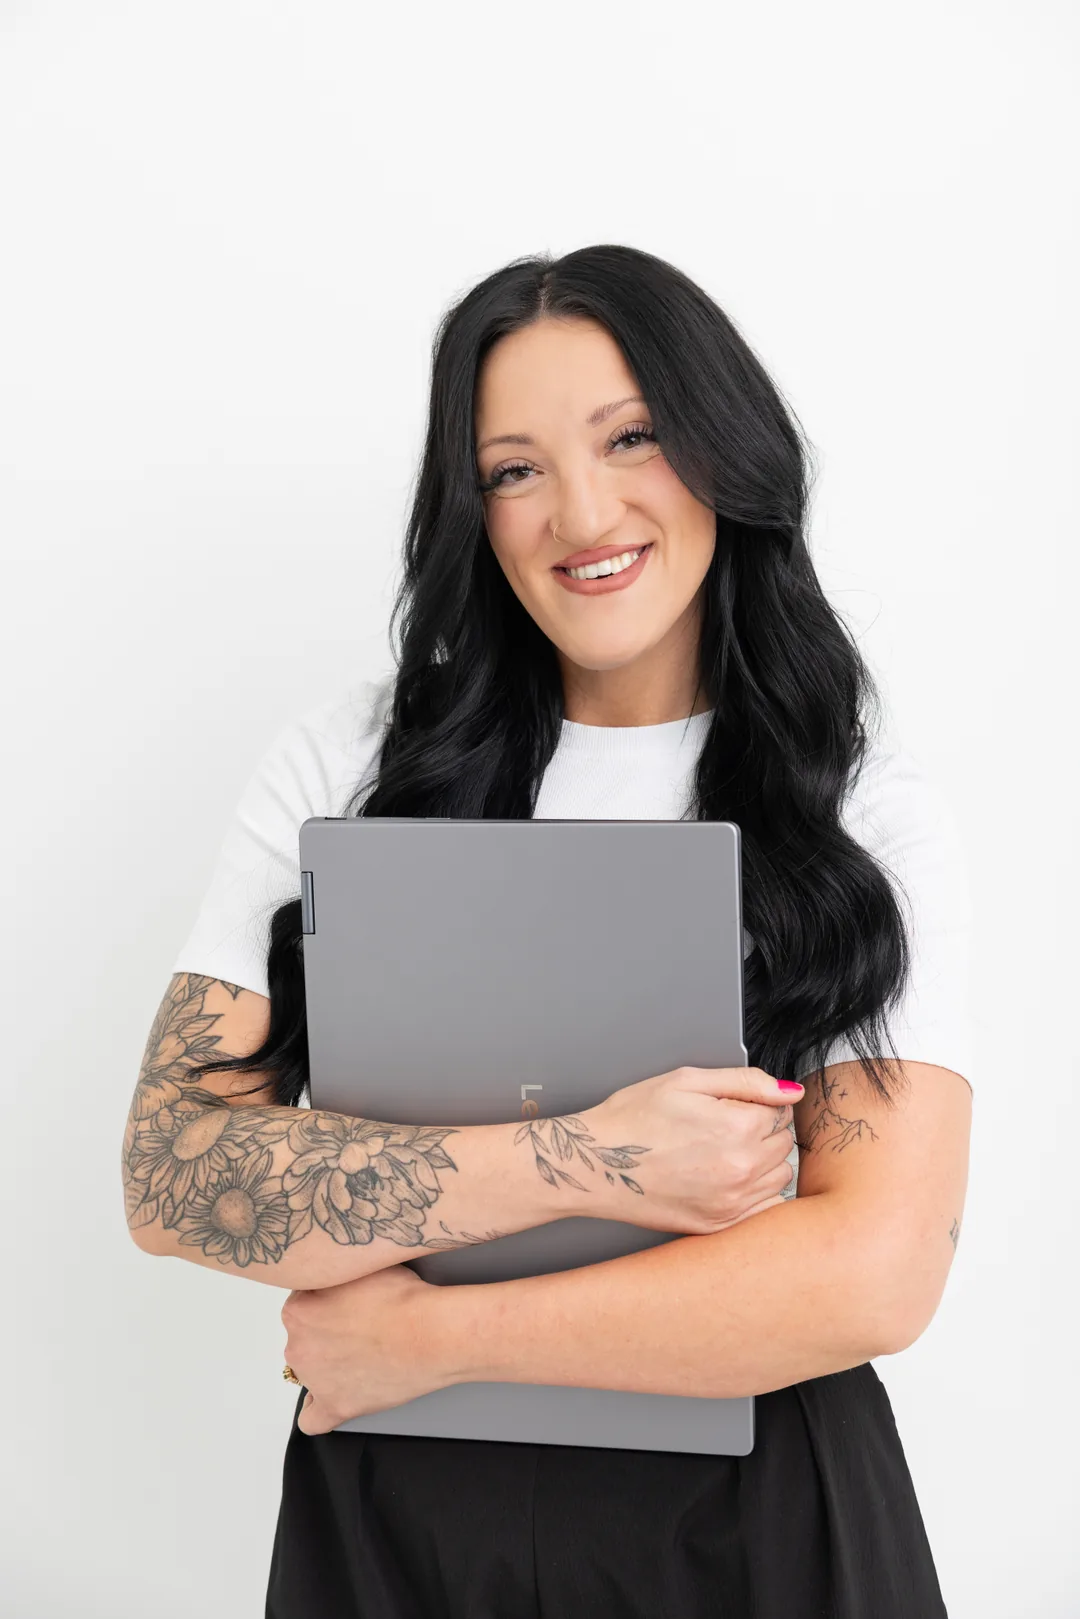
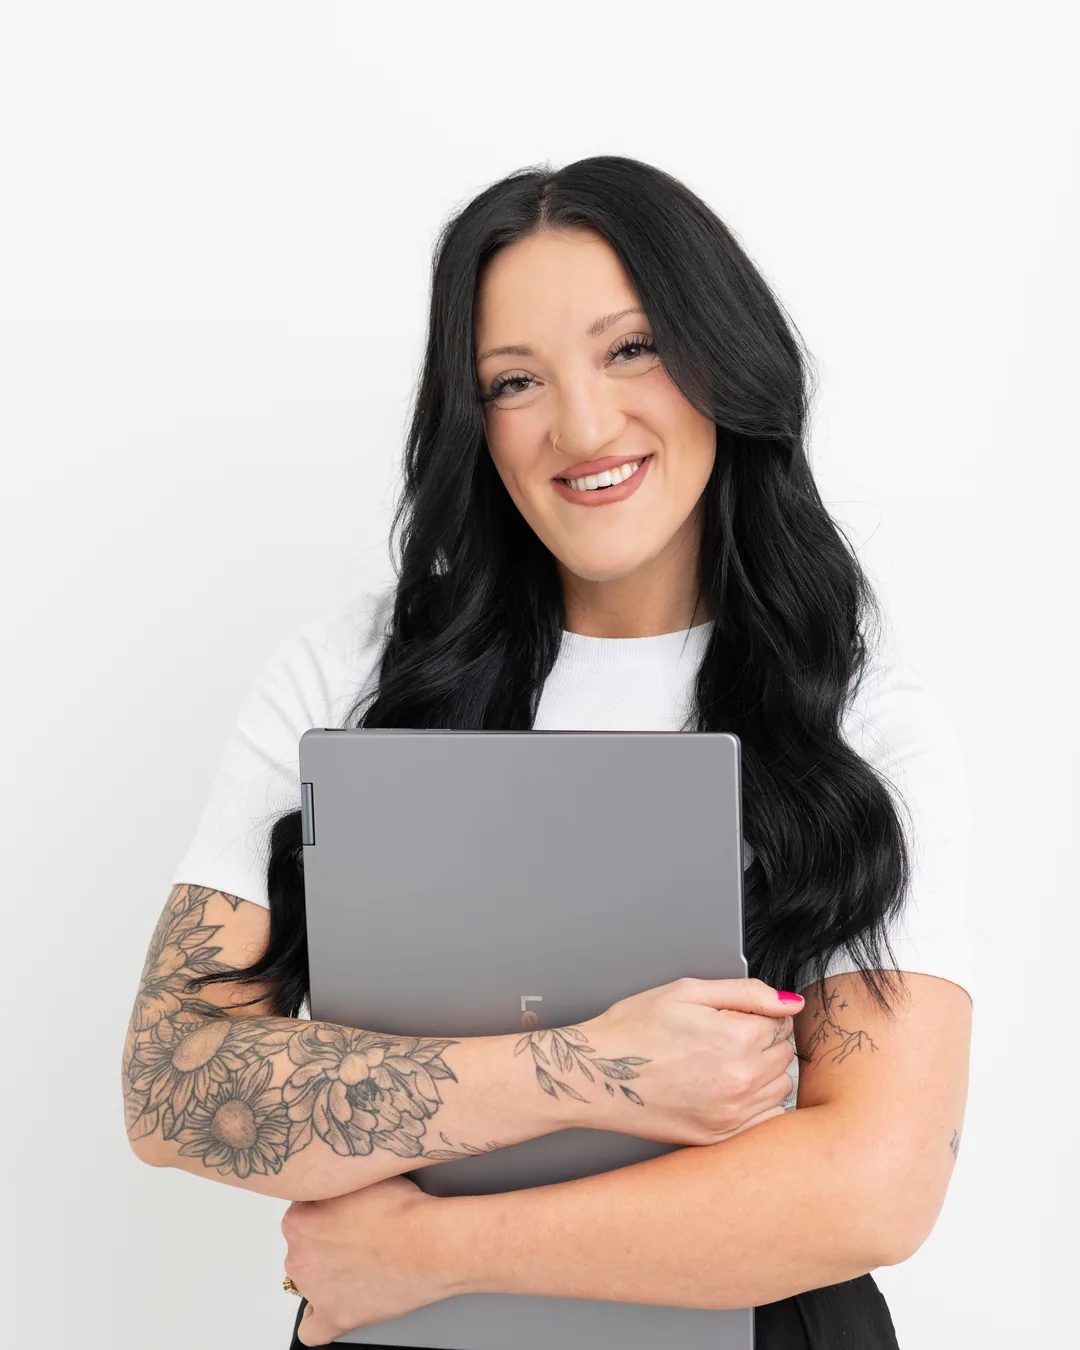
Add founder section, restore colour, and fix two live defects
Requested changes plus the two remaining confirmed bugs.

Testimonials: move the portrait band from just above the CTA to
directly under the hero, ahead of the stats. Switched to eager
loading, since at its new position it is above the fold on most
screens and would otherwise pop in mid-scroll.

Colour: drop the grayscale filter and the teal mix-blend-multiply
wash from the BehindElevate and Contact portraits, so all four
photographs of the founder now render in colour. The double-border
frames stay -- those are the editorial device, not the treatment.
The home hero keeps its duotone treatment as requested.

Contact crop: the frame was a landscape box (min-h-[380px] at ~486px
wide) holding a 2:3 portrait, so object-cover discarded 48% of the
image height -- 387px off the top and bottom. Replaced the min-height
with aspect-[4/5] and removed the flex-1/flex that was overriding it,
then re-exported the asset at 1080x1350 to match the frame exactly.
Measured in-browser: 100% of the image now survives, was 52%.

Founder band: new section between SelectedWorks and the pull-quote
testimonials, so the quotes that say "she" and "Tysen" have a face
attached before they appear. bg-background with a border-t, because
the testimonials directly below are already bg-muted. The asset is
cropped in from the full-length frame -- ungraded, the figure filled
only about a third of the width and rendered ~130px wide.

Bug A -- inverted srcSet width descriptors on six hero/CTA images.
[…]

Changed region(s): [[0.0917, 0.0933, 0.9167, 1.0], [0.3667, 0.2489, 0.3972, 0.3111], [0.6417, 0.3422, 0.6722, 0.3733]]

diff --git a/client/src/components/home/FounderBand.tsx b/client/src/components/home/FounderBand.tsx
@@ -1,0 +1,83 @@
+import { Link } from "wouter";
+import { motion } from "framer-motion";
+
+import tysenBandImg from "@assets/tysen-founder-band.webp";
+
+/**
+ * Founder band. Sits between SelectedWorks and PullQuoteTestimonials so the
+ * quotes that say "she" and "Tysen" have a face attached before they appear.
+ * bg-background matches SelectedWorks above, so a border-t separates them —
+ * bg-muted would collide with PullQuoteTestimonials directly below.
+ */
+export default function FounderBand() {
+  return (
+    <section className="py-20 md:py-24 bg-background border-t border-border" id="founder">
+      <div className="max-w-7xl mx-auto px-4 sm:px-6 lg:px-8">
+        <div className="grid grid-cols-1 md:grid-cols-[5fr_6fr] gap-10 md:gap-16 items-center">
+          <motion.figure
+            className="group w-full max-w-[420px] mx-auto md:mx-0"
+            initial={{ opacity: 0, y: 28 }}
+            whileInView={{ opacity: 1, y: 0 }}
+            viewport={{ once: true, amount: 0.3 }}
+            transition={{ duration: 0.85, ease: [0.22, 1, 0.36, 1] }}
+          >
+            <div className="relative border border-primary/30 p-3.5">
+              <div
+                className="absolute -inset-px border border-primary pointer-events-none transition-transform duration-500 translate-x-2.5 translate-y-2.5 group-hover:translate-x-1 group-hover:translate-y-1"
+                aria-hidden="true"
+              />
+              <div className="relative overflow-hidden">
+                <img
+                  src={tysenBandImg}
+                  alt="Tysen Creager, founder of Elevate Growth Solutions"
+                  width={900}
+                  height={1350}
+                  loading="lazy"
+                  decoding="async"
+                  className="w-full h-auto"
+                  data-testid="img-founder-band"
+                />
+              </div>
+            </div>
+            <figcaption className="flex justify-between gap-4 font-sans text-[8.5px] tracking-[0.2em] uppercase text-muted-foreground mt-3.5">
+              <span>Tysen Creager</span>
+              <b className="text-primary font-normal">Founder &amp; Director</b>
+            </figcaption>
+          </motion.figure>
+
+          <motion.div
+            initial={{ opacity: 0, y: 28 }}
+            whileInView={{ opacity: 1, y: 0 }}
+            viewport={{ once: true, amount: 0.3 }}
+            transition={{ duration: 0.85, delay: 0.15, ease: [0.22, 1, 0.36, 1] }}
+          >
+            <span className="block font-sans text-[10.5px] tracking-[0.35em] uppercase text-primary mb-3.5">
+              Behind Elevate
+            </span>
+            <h2 className="font-display font-normal text-[clamp(28px,3.6vw,42px)] leading-[1.18] text-foreground mb-5">
+              Behind every project, the{" "}
+              <em className="italic text-primary">same person.</em>
+            </h2>
+            <p className="font-serif font-light text-[16px] leading-relaxed text-muted-foreground max-w-[56ch]">
+              Tysen Creager founded Elevate Growth Solutions in Salt Lake City, and she still does
+              the work herself — the strategy, the design, the build, and the SEO behind it. Nearly
+              a decade in, with certifications in digital marketing and UX design, she has delivered
+              for large commercial companies and boutique brands alike.
+            </p>
+            <p className="font-serif font-light text-[16px] leading-relaxed text-muted-foreground max-w-[56ch] mt-4">
+              The standard doesn&rsquo;t change with the size of the project, and neither does the
+              person answering your email.
+            </p>
+            <Link
+              href="/behind-elevate"
+              className="inline-block font-sans text-[11px] font-medium tracking-[0.2em] uppercase border border-foreground/30 text-foreground px-9 py-4 mt-8 hover:border-primary hover:text-primary transition-colors"
+              data-testid="link-behind-elevate"
+            >
+              Meet Tysen
+            </Link>
+          </motion.div>
+        </div>
+      </div>
+    </section>
+  );
+}

diff --git a/client/src/pages/Testimonials.tsx b/client/src/pages/Testimonials.tsx
@@ -325,6 +325,29 @@ export default function Testimonials() {
         </div>
       </section>
 
+      {/* Visual Break Section */}
+      <section className="py-12 md:py-16 bg-background">
+        <div className="max-w-5xl mx-auto px-4 sm:px-6 lg:px-8">
+          <motion.div
+            initial={{ opacity: 0, y: 30 }}
+            whileInView={{ opacity: 1, y: 0 }}
+            viewport={{ once: true }}
+            transition={{ duration: 0.6 }}
+            className="rounded-xl overflow-hidden shadow-lg"
+          >
+            <img
+              src={testimonialsImage}
+              alt="Tysen Creager, founder of Elevate Growth Solutions, working at her laptop"
+              width={1600}
+              height={1067}
+              className="w-full h-auto"
+              loading="eager"
+              decoding="async"
+            />
+          </motion.div>
+        </div>
+      </section>
+
       {/* Stats Section */}
       <section ref={statsRef} className="py-12 bg-primary text-primary-foreground">
         <div className="max-w-5xl mx-auto px-4 sm:px-6 lg:px-8">
@@ -420,29 +443,6 @@ export default function Testimonials() {
               </motion.div>
             ))}
           </div>
-        </div>
-      </section>
-
-      {/* Visual Break Section */}
-      <section className="py-12 md:py-16 bg-background">
-        <div className="max-w-5xl mx-auto px-4 sm:px-6 lg:px-8">
-          <motion.div
-            initial={{ opacity: 0, y: 30 }}
-            whileInView={{ opacity: 1, y: 0 }}
-            viewport={{ once: true }}
-            transition={{ duration: 0.6 }}
-            className="rounded-xl overflow-hidden shadow-lg"
-          >
-            <img
-              src={testimonialsImage}
-              alt="Tysen Creager, founder of Elevate Growth Solutions, working at her laptop"
-              width={1600}
-              height={1067}
-              className="w-full h-auto"
-              loading="lazy"
-              decoding="async"
-            />
-          </motion.div>
         </div>
       </section>
 

diff --git a/client/src/pages/Contact.tsx b/client/src/pages/Contact.tsx
@@ -372,27 +372,21 @@ export default function Contact() {
               className="flex flex-col gap-8"
             >
               {/* Editorial image */}
-              <figure className="group relative flex-1 flex flex-col">
-                <div className="relative border border-primary/30 p-3 flex-1 flex">
+              <figure className="group relative flex flex-col">
+                <div className="relative border border-primary/30 p-3">
                   <div
                     className="absolute -inset-px border border-primary pointer-events-none transition-transform duration-500 translate-x-2.5 translate-y-2.5 group-hover:translate-x-1 group-hover:translate-y-1"
                     aria-hidden="true"
                   />
-                  <div className="relative overflow-hidden w-full min-h-[300px] sm:min-h-[380px]">
+                  <div className="relative overflow-hidden w-full aspect-[4/5]">
                     <img
                       src={contactSideImage}
                       alt="Tysen Creager, founder of Elevate Growth Solutions"
                       loading="lazy"
                       decoding="async"
-                      className="absolute inset-0 w-full h-full object-cover grayscale contrast-[1.04]"
-                    />
-                    <div
-                      className="absolute inset-0 mix-blend-multiply"
-                      style={{
-                        background:
-                          "linear-gradient(165deg, rgba(38,109,130,.35), rgba(74,192,216,.08) 60%)"
-                      }}
-                      aria-hidden="true"
+                      width={1080}
+                      height={1350}
+                      className="absolute inset-0 w-full h-full object-cover"
                     />
                   </div>
                 </div>

diff --git a/client/src/components/SchemaMarkup.tsx b/client/src/components/SchemaMarkup.tsx
@@ -10,7 +10,7 @@ const organizationSchema = {
   "@type": "Organization",
   "name": "Elevate Growth Solutions",
   "url": "https://www.elevategrowth.solutions",
-  "logo": "https://www.elevategrowth.solutions/assets/EGS-LOGO-E-icon.png",
+  "logo": "https://www.elevategrowth.solutions/egs-logo-mark.png",
   "description": "Boutique web design agency and full-stack marketing services for businesses of all sizes, from startups to established companies.",
   "telephone": "+1-435-553-4668",
   "email": "tysen@elevategrowth.solutions",
@@ -51,7 +51,7 @@ const localBusinessSchema = {
   "@context": "https://schema.org",
   "@type": "ProfessionalService",
   "name": "Elevate Growth Solutions",
-  "image": "https://www.elevategrowth.solutions/assets/EGS-LOGO-E-icon.png",
+  "image": "https://www.elevategrowth.solutions/egs-logo-mark.png",
   "url": "https://www.elevategrowth.solutions",
   "telephone": "+1-435-553-4668",
   "email": "tysen@elevategrowth.solutions",
@@ -227,7 +227,7 @@ const marketingAgencySchema = {
   "name": "Elevate Growth Solutions",
   "description": "Boutique marketing agency specializing in custom website design and development on any platform (including custom code, WordPress, and other builders), plus full-stack marketing services.",
   "url": "https://www.elevategrowth.solutions",
-  "logo": "https://i.postimg.cc/13kYHV2m/EGS-LOGO-Full.png",
+  "logo": "https://www.elevategrowth.solutions/egs-logo-mark.png",
   "image": "https://www.elevategrowth.solutions/egs-social-sharing.png",
   "telephone": "+1-435-553-4668",
   "email": "tysen@elevategrowth.solutions",

diff --git a/client/src/pages/SaltLakeCity.tsx b/client/src/pages/SaltLakeCity.tsx
@@ -15,7 +15,7 @@ const localBusinessSchemaData = {
   "@context": "https://schema.org",
   "@type": "ProfessionalService",
   "name": "Elevate Growth Solutions - Salt Lake City Web Design & Marketing",
-  "image": "https://www.elevategrowth.solutions/assets/EGS-LOGO-E-icon.png",
+  "image": "https://www.elevategrowth.solutions/egs-logo-mark.png",
   "url": "https://www.elevategrowth.solutions/salt-lake-city",
   "email": "tysen@elevategrowth.solutions",
   "description": "Premier web design agency and digital marketing consultant serving Salt Lake City, Utah. Custom websites, SEO services, and full-stack marketing for local businesses of all sizes.",
@@ -137,7 +137,7 @@ export default function SaltLakeCity() {
 
       <Hero
         backgroundImage={heroImage}
-        imageSrcSet={`${heroImage768} 768w, ${heroImage} 1920w`}
+        imageSrcSet={`${heroImage768} 768w, ${heroImage} 736w`}
         title="Salt Lake City Web Design & Digital Marketing"
         subtitle="Boutique marketing agency serving Utah businesses from Silicon Slopes to Park City"
         ctaText="Get a Free Consultation"
@@ -282,7 +282,7 @@ export default function SaltLakeCity() {
       <section className="relative py-24 px-4 overflow-hidden">
         <img
           src={ctaImage}
-          srcSet={`${ctaImage768} 768w, ${ctaImage} 1920w`}
+          srcSet={`${ctaImage768} 768w, ${ctaImage} 735w`}
           alt="Start a web design and marketing project with Elevate Growth Solutions"
           width={1920}
           height={1080}

diff --git a/client/src/pages/Home.tsx b/client/src/pages/Home.tsx
@@ -7,6 +7,7 @@ import ClientMarquee from "@/components/home/ClientMarquee";
 import ServicesIconGrid from "@/components/home/ServicesIconGrid";
 import ProcessSplit from "@/components/home/ProcessSplit";
 import SelectedWorks from "@/components/home/SelectedWorks";
+import FounderBand from "@/components/home/FounderBand";
 import PullQuoteTestimonials from "@/components/home/PullQuoteTestimonials";
 import InquirySection from "@/components/home/InquirySection";
 import ParallaxCTA from "@/components/home/ParallaxCTA";
@@ -61,6 +62,8 @@ export default function Home() {
       />
 
       <SelectedWorks />
+
+      <FounderBand />
 
       <PullQuoteTestimonials
         featuredQuote="My business has skyrocketed since Tysen created my website. It's seriously so stunning and seamless. Hire her! You will not regret it."

diff --git a/client/src/pages/BehindElevate.tsx b/client/src/pages/BehindElevate.tsx
@@ -93,16 +93,8 @@ export default function BehindElevate() {
                     height={500}
                     loading="eager"
                     decoding="async"
-                    className="w-full h-auto grayscale contrast-[1.04]"
+                    className="w-full h-auto"
                     data-testid="img-tysen-photo"
-                  />
-                  <div
-                    className="absolute inset-0 mix-blend-multiply"
-                    style={{
-                      background:
-                        "linear-gradient(165deg, rgba(38,109,130,.32), rgba(74,192,216,.08) 60%)"
-                    }}
-                    aria-hidden="true"
                   />
                 </div>
               </div>

diff --git a/client/src/pages/WiseWomen.tsx b/client/src/pages/WiseWomen.tsx
@@ -373,7 +373,7 @@ export default function WiseWomen() {
       <header className="relative min-h-[88svh] flex items-center justify-center px-5 py-20 text-center overflow-hidden bg-[#1B1E20]">
         <img
           src="/hero_bw_768.webp"
-          srcSet="/hero_bw_768.webp 768w, /hero_bw_1920.webp 1920w"
+          srcSet="/hero_bw_768.webp 768w, /hero_bw_1920.webp 736w"
           sizes="100vw"
           alt=""
           {...({ fetchpriority: "high" } as React.ImgHTMLAttributes<HTMLImageElement>)}

diff --git a/client/src/pages/SaltLakeCityMarketing.tsx b/client/src/pages/SaltLakeCityMarketing.tsx
@@ -69,7 +69,7 @@ export default function SaltLakeCityMarketing() {
         {/* Background Image */}
         <img
           src={heroImage}
-          srcSet={`${heroImage768} 768w, ${heroImage} 1920w`}
+          srcSet={`${heroImage768} 768w, ${heroImage} 736w`}
           alt="Salt Lake City marketing agency and web design"
           width={1920}
           height={1080}

diff --git a/client/src/pages/StGeorgeWebDesign.tsx b/client/src/pages/StGeorgeWebDesign.tsx
@@ -70,7 +70,7 @@ export default function StGeorgeWebDesign() {
         {/* Background Image */}
         <img
           src={heroImage}
-          srcSet={`${heroImage768} 768w, ${heroImage} 1920w`}
+          srcSet={`${heroImage768} 768w, ${heroImage} 736w`}
           alt="St. George web design and marketing"
           width={1920}
           height={1080}

diff --git a/client/src/pages/OgdenWebDesign.tsx b/client/src/pages/OgdenWebDesign.tsx
@@ -68,7 +68,7 @@ export default function OgdenWebDesign() {
         {/* Background Image */}
         <img
           src={heroImage}
-          srcSet={`${heroImage768} 768w, ${heroImage} 1920w`}
+          srcSet={`${heroImage768} 768w, ${heroImage} 736w`}
           alt="Ogden web design and marketing"
           width={1920}
           height={1080}
